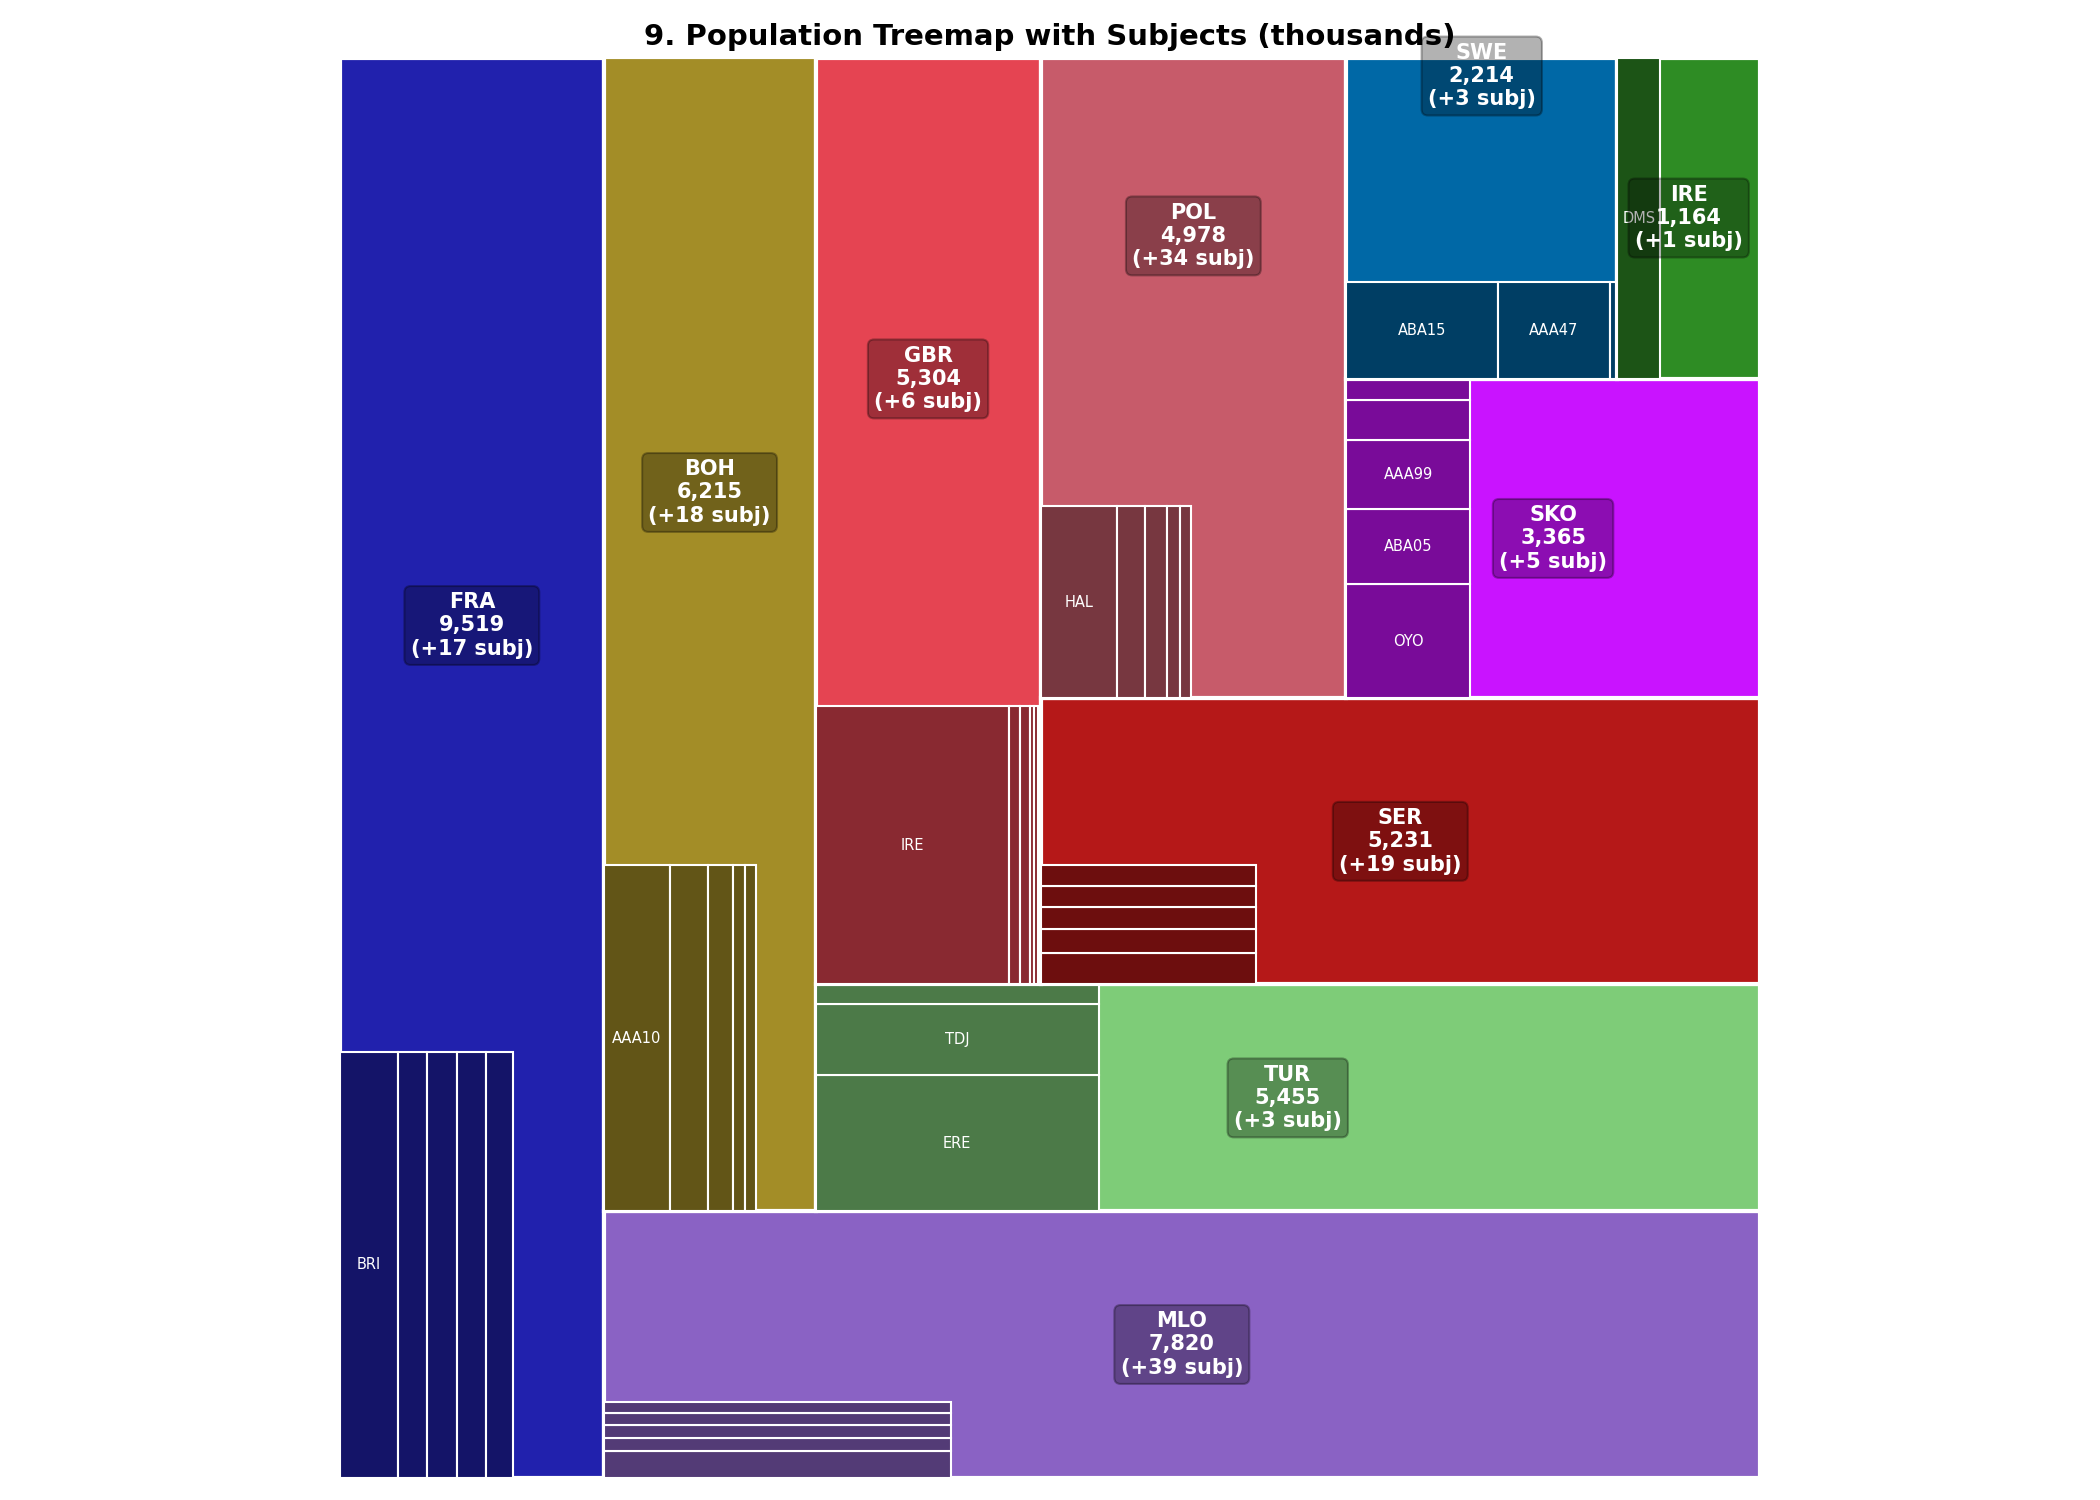
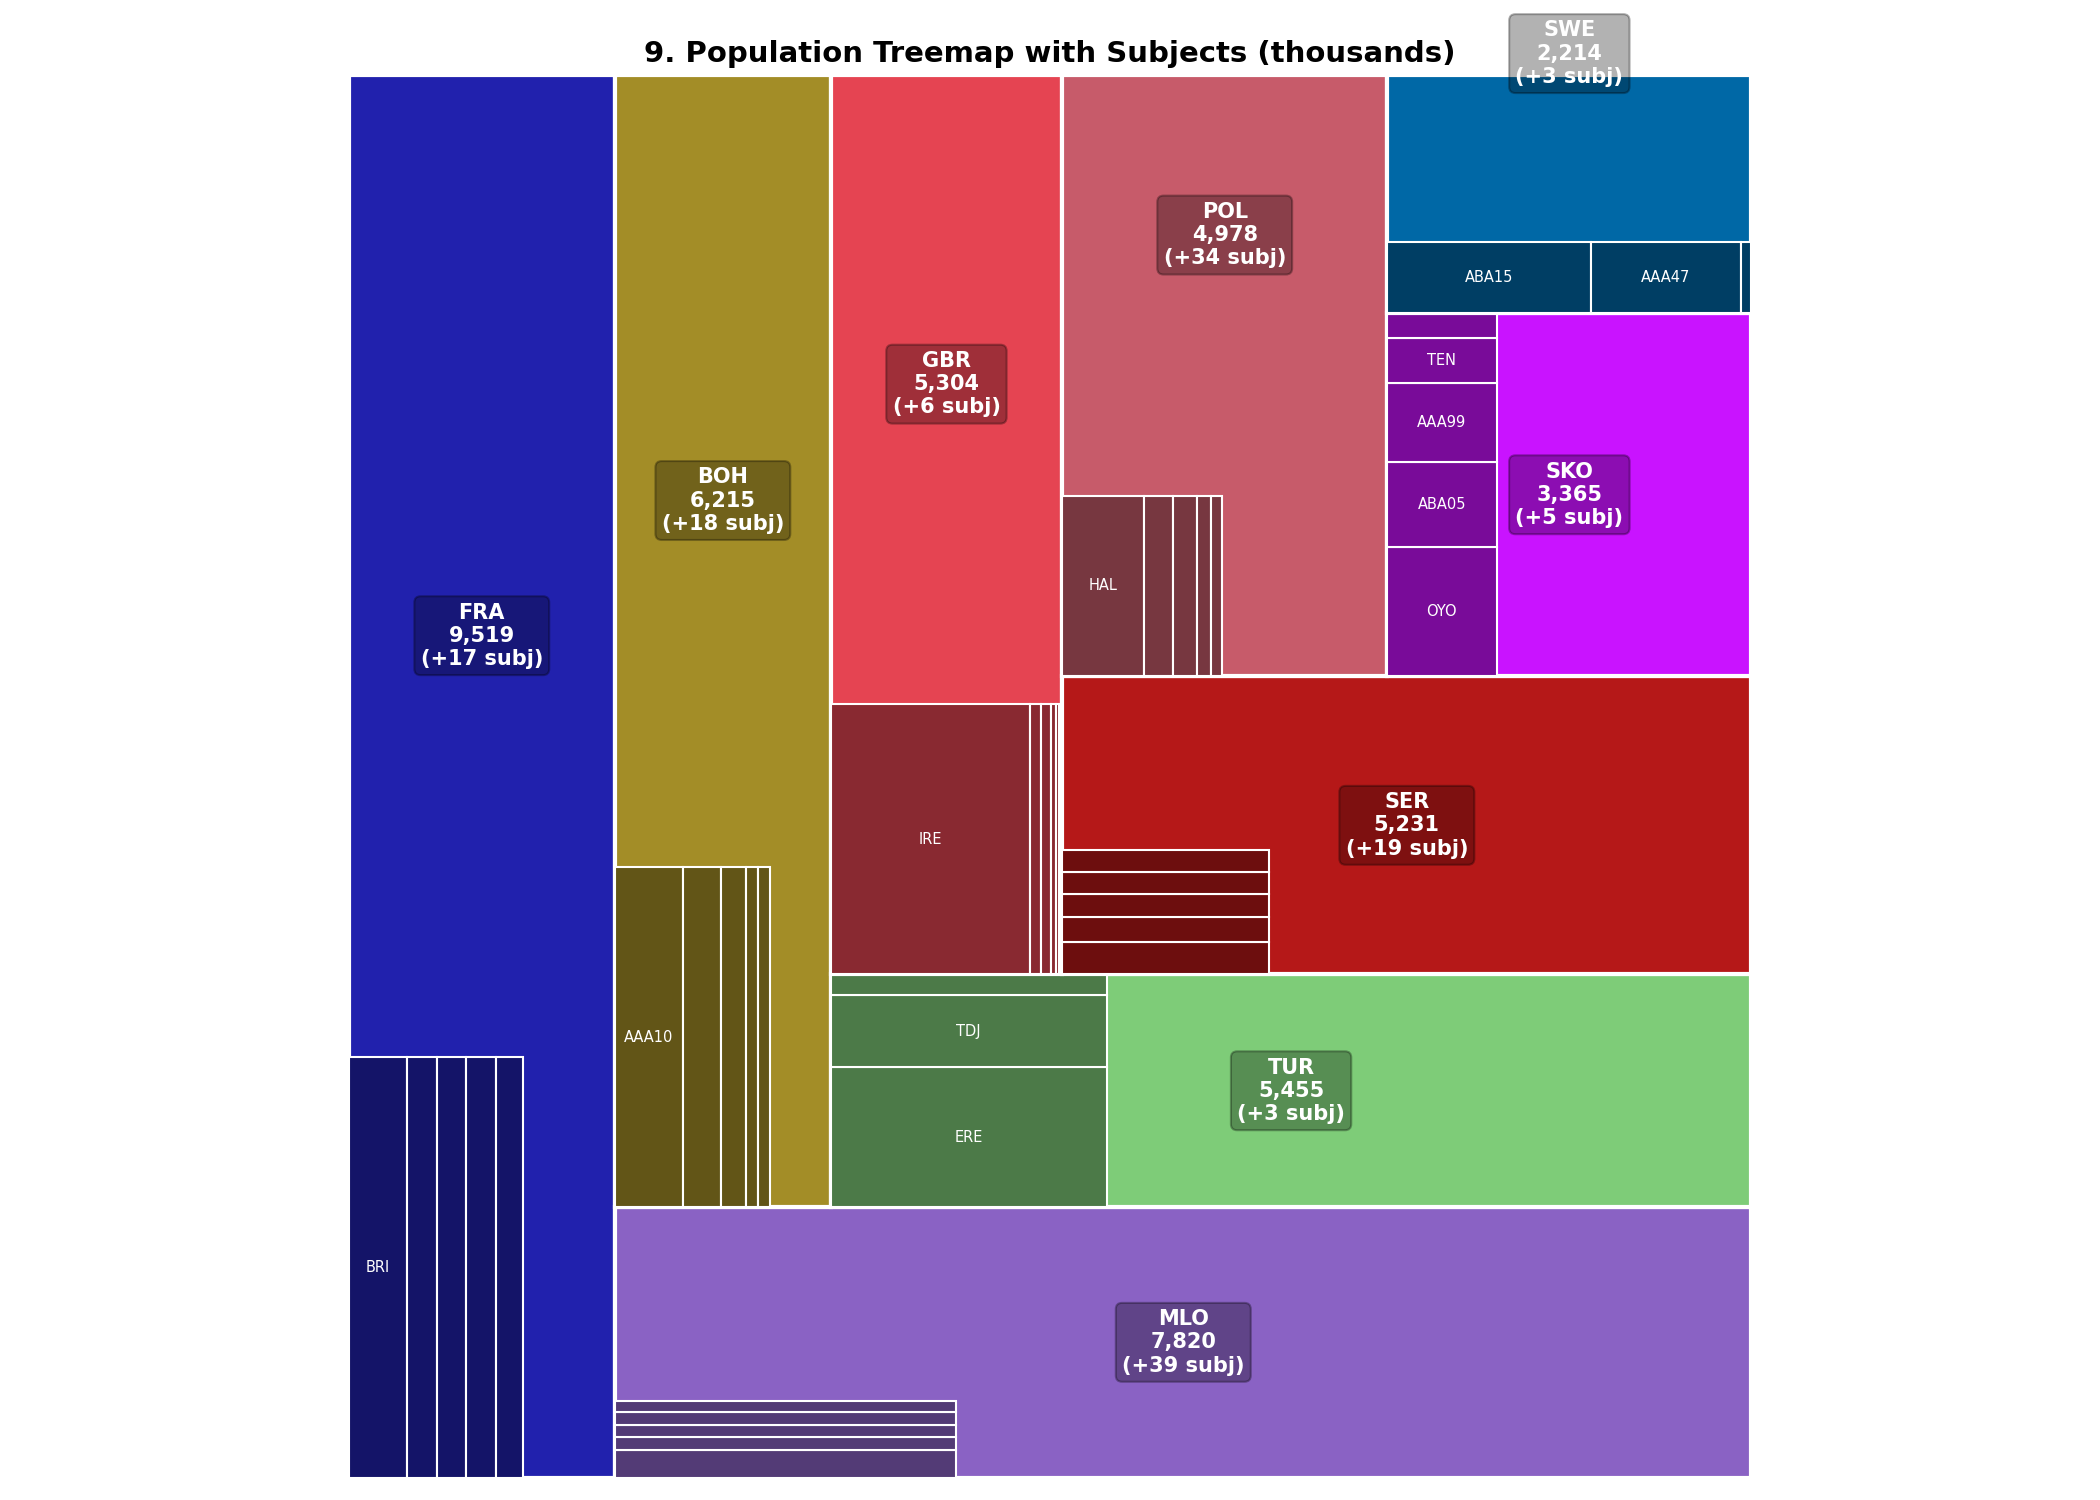
Fix treemap double-counting of vassalized players
Player countries that are subjects of other players (e.g., IRE under GBR)
now only appear nested inside their overlord's box in treemaps, not as
separate top-level boxes.

Time series charts still show all players as separate lines.

Changed region(s): [[0.1548, 0.0, 0.8357, 0.9813], [0.5262, 0.8587, 0.5881, 0.92], [0.4333, 0.92, 0.4643, 0.9813]]

diff --git a/compare_players_v2.py b/compare_players_v2.py
@@ -809,7 +809,14 @@ def create_graphs(countries: list[CountryStats], save_dir: Path):
     has_subjects = any(len(c.subjects) > 0 for c in countries)
 
     if has_subjects:
-        # Chart: Population + Subjects over time
+        # For treemaps: filter out player countries that are subjects of other player countries
+        # (they'll appear nested under their overlord, not as separate top-level entries)
+        all_player_subjects = set()
+        for c in countries:
+            all_player_subjects.update(c.subjects)
+        independent_countries = [c for c in countries if c.tag not in all_player_subjects]
+
+        # Chart: Population + Subjects over time (show ALL players, including vassalized ones)
         countries_with_combined = [c for c in countries if c.combined_historical_population]
         if countries_with_combined:
             fig, ax = plt.subplots(figsize=(14, 7))
@@ -834,7 +841,7 @@ def create_graphs(countries: list[CountryStats], save_dir: Path):
             plt.close()
             chart_num += 1
 
-        # Chart: Tax Base + Subjects over time
+        # Chart: Tax Base + Subjects over time (show ALL players, including vassalized ones)
         countries_with_combined_tax = [c for c in countries if c.combined_historical_tax_base]
         if countries_with_combined_tax:
             fig, ax = plt.subplots(figsize=(14, 7))
@@ -858,9 +865,9 @@ def create_graphs(countries: list[CountryStats], save_dir: Path):
             plt.close()
             chart_num += 1
 
-        # Nested Treemap: Population + Subjects
+        # Nested Treemap: Population + Subjects (only independent players, vassalized ones appear nested)
         fig, ax = plt.subplots(figsize=(14, 10))
-        countries_sorted = sorted(countries, key=lambda c: c.total_population, reverse=True)
+        countries_sorted = sorted(independent_countries, key=lambda c: c.total_population, reverse=True)
         nested_treemap_with_subjects(ax, countries_sorted, color_map,
                                     lambda c: c.population, lambda s: s.population,
                                     f'{chart_num}. Population Treemap with Subjects (thousands)')
@@ -870,9 +877,9 @@ def create_graphs(countries: list[CountryStats], save_dir: Path):
         plt.close()
         chart_num += 1
 
-        # Nested Treemap: Tax Base + Subjects
+        # Nested Treemap: Tax Base + Subjects (only independent players, vassalized ones appear nested)
         fig, ax = plt.subplots(figsize=(14, 10))
-        countries_sorted = sorted(countries, key=lambda c: c.total_tax_base, reverse=True)
+        countries_sorted = sorted(independent_countries, key=lambda c: c.total_tax_base, reverse=True)
         nested_treemap_with_subjects(ax, countries_sorted, color_map,
                                     lambda c: c.current_tax_base, lambda s: s.current_tax_base,
                                     f'{chart_num}. Tax Base Treemap with Subjects')
